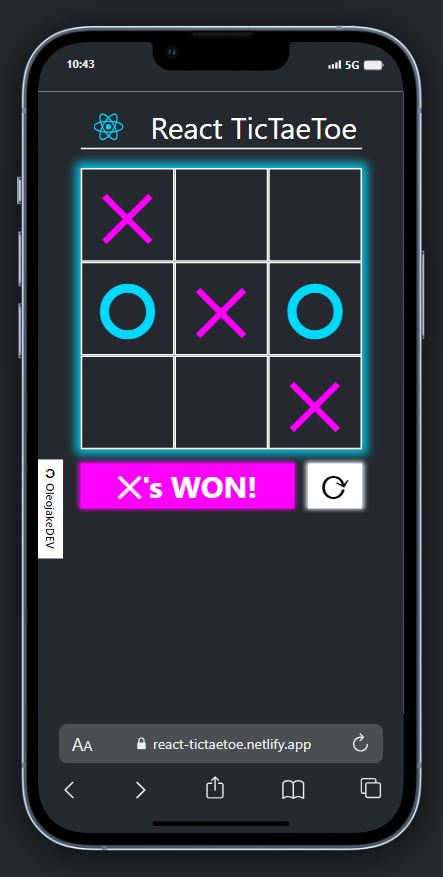
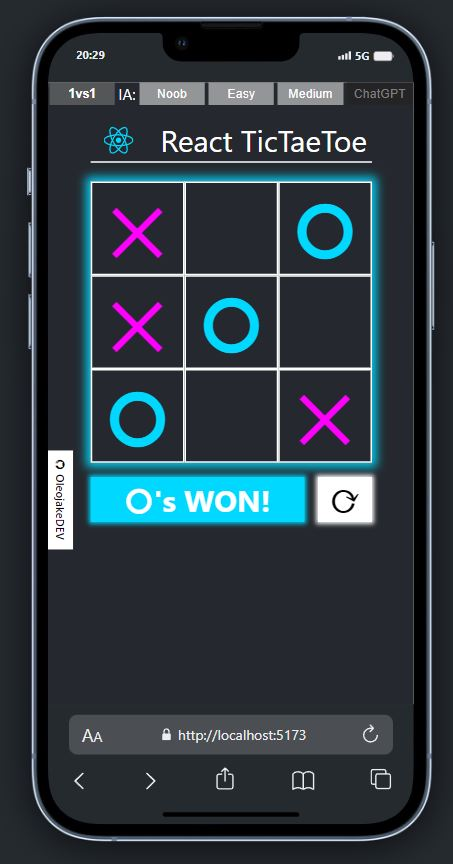
update readme

Changed region(s): [[0.0293, 0.0, 0.9684, 1.0]]

diff --git a/README.md b/README.md
@@ -1,6 +1,35 @@
-# React TicTacToe
+# React TicTacToe vs IA
 
-The **tic-tac-toe** game developed with react components and a responsive design. => ([live demo](https://react-tictaetoe.netlify.app/))
+The **tic-tac-toe** game developed with react components => ([live demo](https://react-tictaetoe.netlify.app/))
+
+## How to Start
+Clone or download the repository and use the command npm run dev to start the game by default on port http://localhost:5173/.
+
+Use the top menu to select the game mode or the AI difficulty level.
+
+## Game Modes
+### Player vs Player
+Play against a friend on the same mobile device, choose who will be X or O.
+### Player vs IA
+Different difficulty levels to play against the AI.
+
+**NOOB:** The AI makes random moves across the board without following any pattern.
+
+**EASY:** The AI prioritizes making a winning move.
+
+**MEDIUM:** The AI prioritizes making a winning move, but if it detects that the opponent is one move away from winning, it will block them.
+
+**CHATGPT:** A query is sent to the gpt-3.5-turbo model with the current board situation. If the move is invalid, for example, if it selects an already occupied square, the move will be decided using the AI with MEDIUM difficulty level.
+
+## How to Use Your OPENAI API_KEY
+By default, the mode with ChatGPT is disabled unless you provide a valid API_KEY. You can do this in the file **\src\core\IA\api\chatgpt-openia.api.ts** on line 1.
+
+````JavaScript
+export const API_KEY = null; // ENTER YOUR API_KEY TO PLAY VS OPENIA
+````
+
+## Some Screenshots
+![tic-tae-toe-screen-gif](public/readme/tic-tae-toe-screen-gif.gif)
 
 ![tic-tae-toe-screen](public/readme/tic-tae-toe-screen.JPG)
 
